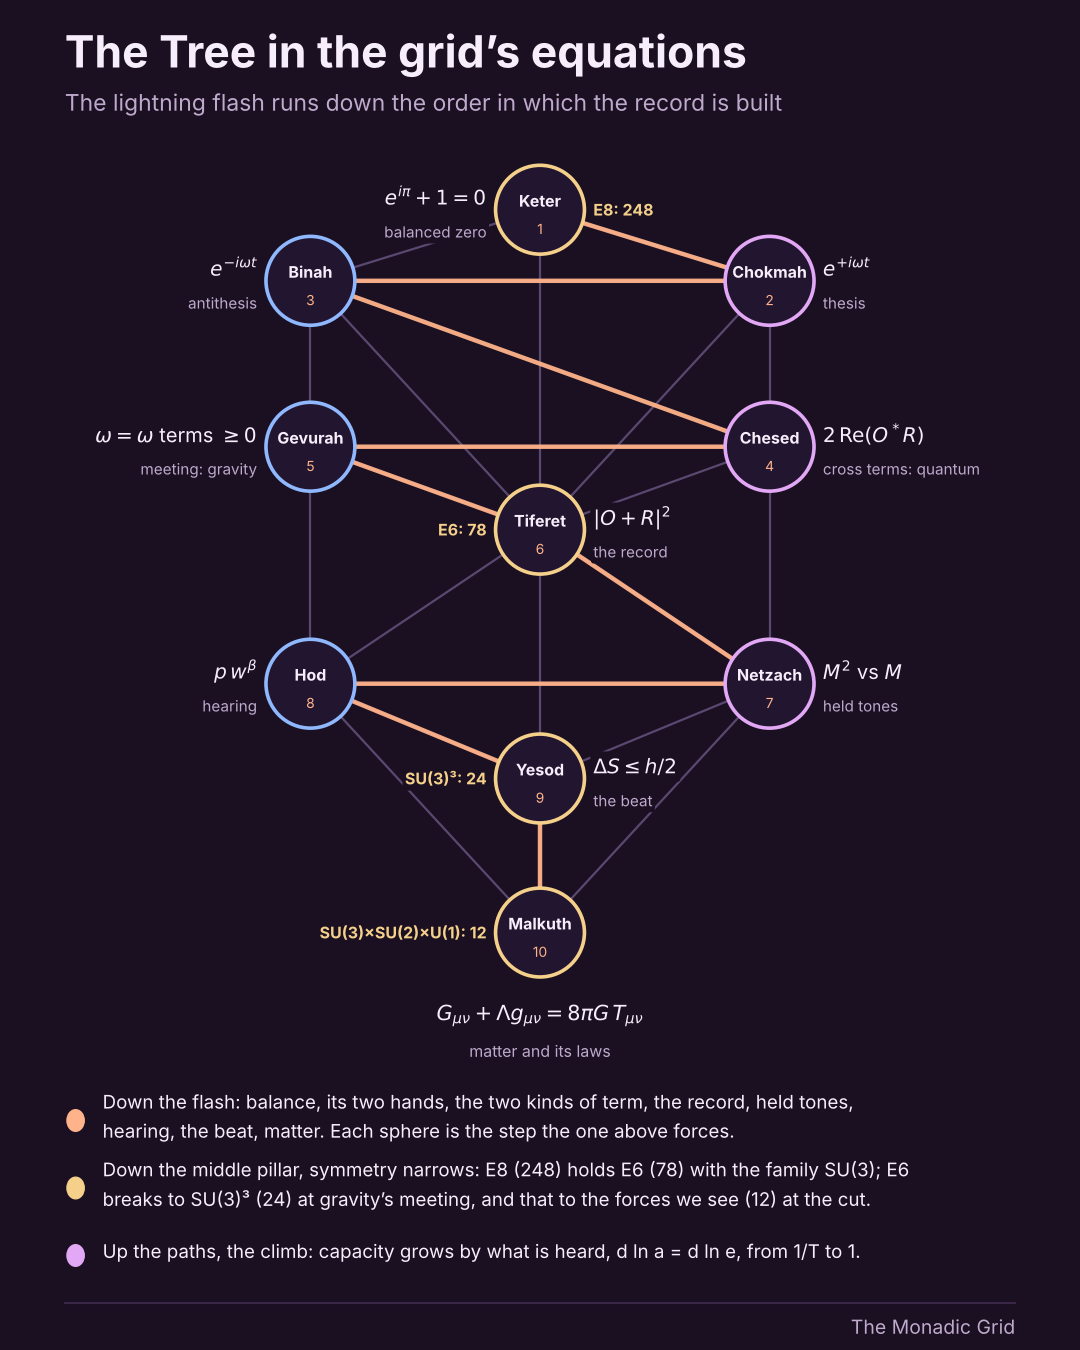
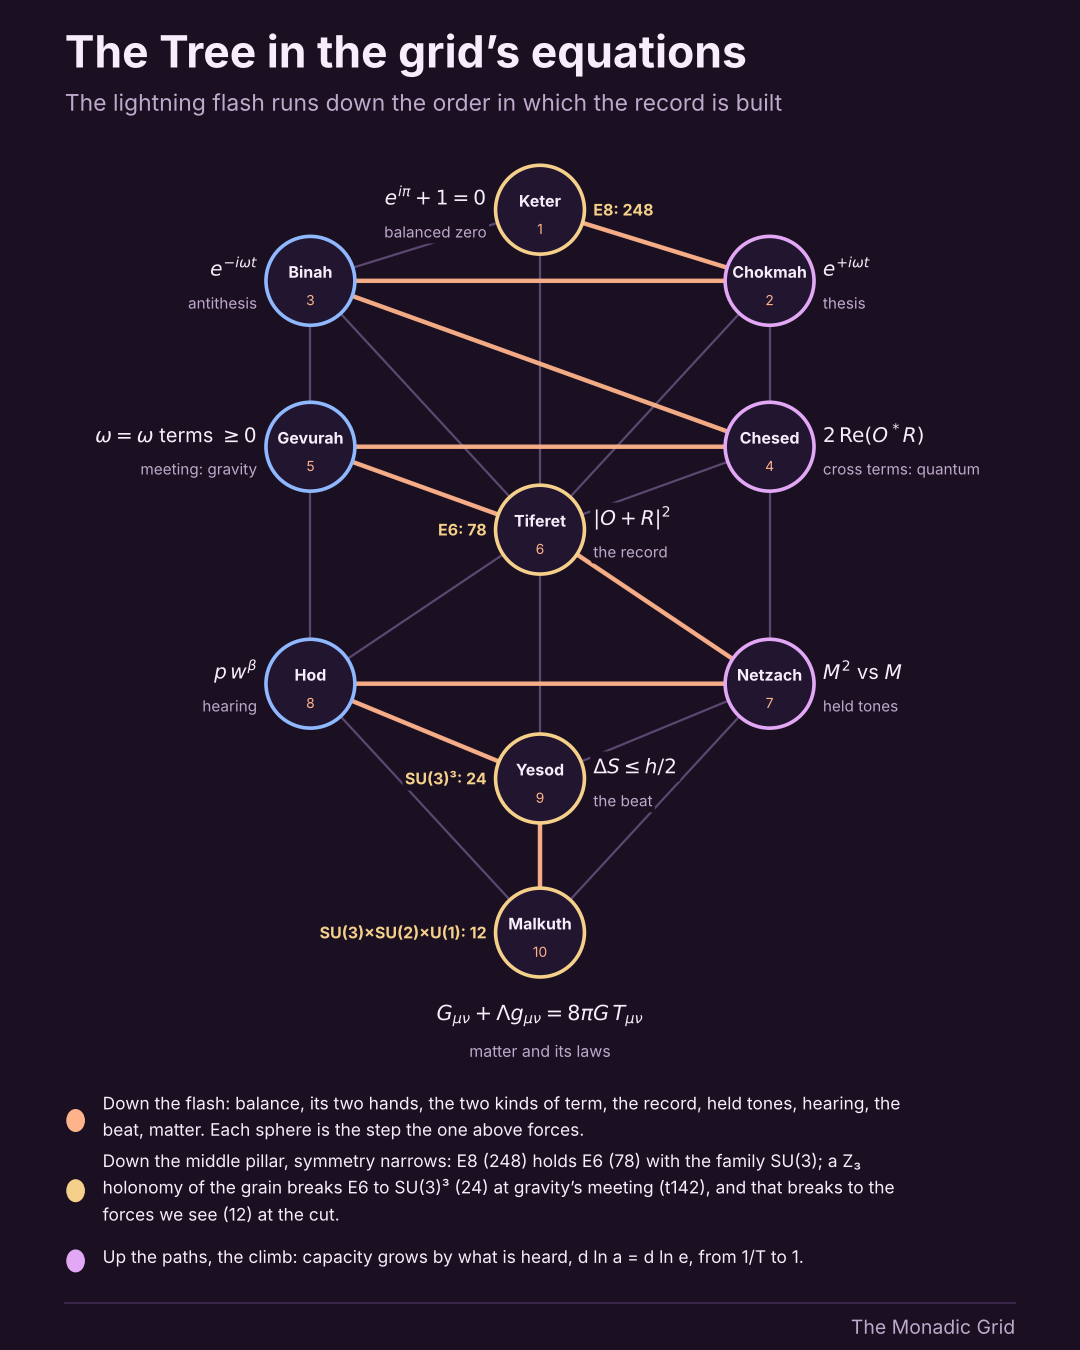
Old maps: tree slides (around the Tree; downward tree); equations slide cites t142
Claude-Session: https://claude.ai/code/session_01CKqo7m5nb9uVy9UuX5Nsz2

Changed region(s): [[0.0611, 0.8089, 0.825, 0.9333]]

diff --git a/drafts/old_maps/visuals/tree_around.py b/drafts/old_maps/visuals/tree_around.py
@@ -1,0 +1,52 @@
+"""Old maps slide: the Tree of Life drawn in full, with the grid's reading (dialectic pillars, 22 paths, the climb)."""
+import matplotlib; matplotlib.use('Agg'); import matplotlib.pyplot as plt
+from matplotlib.patches import Circle, FancyBboxPatch
+BG, PANEL, INK, MUTED, LINE = '#1A1022', '#221530', '#F7EEFB', '#BFA9CC', '#3A2748'
+THESIS, ANTI, SYN = '#E3A8F5', '#8FB8FF', '#F5D08A'
+SY = 0.76
+XS = 1.5
+S0 = {'Keter': (0, 0, 'Crown', SYN), 'Chokmah': (1, 0.6, 'Wisdom', THESIS), 'Binah': (-1, 0.6, 'Understanding', ANTI),
+     'Chesed': (1, 2.0, 'Mercy', THESIS), 'Gevurah': (-1, 2.0, 'Strength', ANTI), 'Tiferet': (0, 2.7, 'Beauty', SYN),
+     'Netzach': (1, 4.0, 'Victory', THESIS), 'Hod': (-1, 4.0, 'Splendour', ANTI), 'Yesod': (0, 4.8, 'Foundation', SYN), 'Malkuth': (0, 6.1, 'Kingdom', SYN)}
+S = {k: (x*XS, y*SY, e, c) for k, (x, y, e, c) in S0.items()}
+P = [('Keter','Chokmah','א','m'),('Keter','Binah','ב','d'),('Keter','Tiferet','ג','d'),('Chokmah','Binah','ד','d'),('Chokmah','Tiferet','ה','s'),
+     ('Chokmah','Chesed','ו','s'),('Binah','Tiferet','ז','s'),('Binah','Gevurah','ח','s'),('Chesed','Gevurah','ט','s'),('Chesed','Tiferet','י','s'),
+     ('Chesed','Netzach','כ','d'),('Gevurah','Tiferet','ל','s'),('Gevurah','Hod','מ','m'),('Tiferet','Netzach','נ','s'),('Tiferet','Yesod','ס','s'),
+     ('Tiferet','Hod','ע','s'),('Netzach','Hod','פ','d'),('Netzach','Yesod','צ','s'),('Netzach','Malkuth','ק','s'),('Hod','Yesod','ר','d'),
+     ('Hod','Malkuth','ש','m'),('Yesod','Malkuth','ת','d')]
+PC = {'m': '#FFB38A', 'd': '#C9A2F0', 's': '#6E5A82'}
+fig = plt.figure(figsize=(10.8, 13.5), dpi=100); fig.patch.set_facecolor(BG)
+fig.text(0.06, 0.945, 'Around the Tree: veils, pillars, worlds', color=INK, fontsize=32, fontweight='bold')
+fig.text(0.06, 0.912, 'What stands above the Crown, what each pillar is, and the four worlds', color=MUTED, fontsize=17)
+ax = fig.add_axes([0.02, 0.255, 0.96, 0.645]); ax.set_facecolor(BG); ax.axis('off'); ax.set_xlim(-2.75, 2.75); ax.set_ylim(6.1*SY + 0.55, -1.15); ax.set_aspect('equal')
+for x, c, lab in ((XS, THESIS, 'Mercy · bosonic'), (-XS, ANTI, 'Severity · fermionic'), (0, SYN, 'Balance · mirror line')):
+    ax.add_patch(FancyBboxPatch((x - 0.5, -0.55), 1.0, (6.1*SY + 1.05) if x == 0 else (4.0*SY + 1.0), boxstyle='round,pad=0,rounding_size=0.25', fc=c, alpha=0.07, ec='none'))
+    ax.text(x, -0.72, lab, color=c, fontsize=12.5, ha='center', va='center', fontweight='bold')
+WORLDS = [('Atziluth', 'frequency domain', -0.45, 0.35), ('Beriah', 'the record begins', 0.35, 1.0), ('Yetzirah', 'tones form', 1.0, 5.3), ('Assiah', 'bodies', 5.3, 6.6)]
+for i, (wn, wg, y0, y1) in enumerate(WORLDS):
+    ax.axhspan(y0*SY*1.0, y1*SY*1.0, color='#8FB8FF' if i % 2 else '#E3A8F5', alpha=0.035, zorder=0)
+    ax.text(1.98, (y0 + y1)/2*SY, wn, color=INK, fontsize=11, ha='left', va='bottom', fontweight='bold')
+    ax.text(1.98, (y0 + y1)/2*SY + 0.06, wg, color=MUTED, fontsize=10, ha='left', va='top')
+ax.text(0, -0.98, 'Ain  0   ·   Ain Soph  ∞   ·   Ain Soph Aur  light', color=MUTED, fontsize=11.5, ha='center', va='center')
+for a, b, L, k in P:
+    (xa, ya, *_), (xb, yb, *_) = S[a], S[b]
+    ax.plot([xa, xb], [ya, yb], color=PC[k], lw=3.2 if k != 's' else 2.2, zorder=1, solid_capstyle='round')
+    mx, my = (xa + xb)/2, (ya + yb)/2
+    if (a, b) in (('Keter', 'Tiferet'), ('Tiferet', 'Yesod'), ('Yesod', 'Malkuth')): mx += 0.2
+    ax.text(mx, my, L, color=INK, fontsize=13, ha='center', va='center', zorder=3, family='DejaVu Sans',
+            bbox=dict(boxstyle='circle,pad=0.18', fc=BG, ec=PC[k], lw=1))
+for name, (x, y, eng, c) in S.items():
+    ax.add_patch(Circle((x, y), 0.34, fc=PANEL, ec=c, lw=3, zorder=4))
+    ax.text(x, y - 0.07, name, color=INK, fontsize=12 if len(name) > 6 else 13, ha='center', va='center', fontweight='bold', zorder=5)
+    ax.text(x, y + 0.16, eng, color=MUTED, fontsize=7.6 if len(eng) > 10 else 9.5, ha='center', va='center', zorder=5)
+items = [('#F5D08A', 'Above the Crown: Ain, Ain Soph, Ain Soph Aur. Nothing, the unbounded, and light between them: the balanced zero, the whole spectrum, the record’s first ray.'),
+         ('#E3A8F5', 'Mercy is expansion, the bosonic side: every occupation allowed. Severity is restriction, the fermionic side: exclusion, the tzimtzum that gives each monad its own coordinates.'),
+         ('#F5D08A', 'Tiferet is the hub: every shortest path from Crown to Kingdom passes through it, as every reading passes through the record. Ten spheres from the tetractys, 1 + 2 + 3 + 4.')]
+import textwrap
+for i, (c, s) in enumerate(items):
+    y = 0.215 - i*0.062
+    fig.patches.append(Circle((0.07, y - 0.004), 0.008, color=c, transform=fig.transFigure, figure=fig))
+    fig.text(0.095, y, '\n'.join(textwrap.wrap(s, 96)), color=INK, fontsize=13.5, va='center', linespacing=1.3)
+fig.add_artist(plt.Line2D([0.06, 0.94], [0.04, 0.04], color=LINE, lw=1.5, transform=fig.transFigure))
+fig.text(0.94, 0.016, 'The Monadic Grid', color=MUTED, fontsize=14, ha='right')
+fig.savefig('tree_around.png', facecolor=BG); print('ok')

diff --git a/drafts/old_maps/visuals/downtree_slide.py b/drafts/old_maps/visuals/downtree_slide.py
@@ -1,0 +1,35 @@
+"""Old maps slide: the downward tree. The upward and downward Fibonacci series, the golden annulus between them, and the zeta mirror."""
+import numpy as np, matplotlib; matplotlib.use('Agg'); import matplotlib.pyplot as plt
+from matplotlib.patches import Circle, Wedge
+BG, INK, MUTED, LINE = '#1A1022', '#F7EEFB', '#BFA9CC', '#3A2748'
+UP, DOWN, VEIL, GOLD = '#E3A8F5', '#8FB8FF', '#FFB38A', '#F5D08A'
+phi = (1 + 5**0.5)/2
+fig = plt.figure(figsize=(10.8, 13.5), dpi=100); fig.patch.set_facecolor(BG)
+fig.text(0.06, 0.95, 'The downward tree', color=INK, fontsize=32, fontweight='bold')
+fig.text(0.06, 0.918, 'Each tree’s infinity is the other’s finite side; the veil lies between', color=MUTED, fontsize=16.5)
+ax = fig.add_axes([0.05, 0.40, 0.9, 0.49]); ax.set_facecolor(BG); ax.set_aspect('equal'); ax.axis('off'); ax.set_xlim(-2.6, 2.6); ax.set_ylim(-2.25, 2.25)
+ax.add_patch(Circle((0, 0), 2.2, color=DOWN, alpha=0.18, lw=0))
+ax.add_patch(Wedge((0, 0), phi, 0, 360, width=phi - 1/phi, color=VEIL, alpha=0.35, lw=0))
+ax.add_patch(Circle((0, 0), 1/phi, color=UP, alpha=0.45, lw=0))
+for r, c in ((1/phi, UP), (phi, DOWN)): ax.add_patch(Circle((0, 0), r, fill=False, ec=c, lw=2.5))
+ax.plot([1/phi, -phi], [0, 0], 'o', color=GOLD, ms=9, zorder=5)
+ax.text(0, 0.02, 'upward tree', color='#2A1438', fontsize=12, ha='center', va='center', fontweight='bold')
+ax.text(0, -0.22, '|x| < 1/φ', color='#2A1438', fontsize=11, ha='center', va='center')
+ax.text(0, 1.0, 'the veil', color='#3A1A0E', fontsize=13, ha='center', va='center', fontweight='bold')
+ax.text(0, 0.8, '1/φ ≤ |x| ≤ φ', color='#3A1A0E', fontsize=11, ha='center', va='center')
+ax.text(0, 1.95, 'downward tree,  |x| > φ', color=INK, fontsize=12.5, ha='center', va='center', fontweight='bold')
+ax.text(1/phi + 0.08, -0.17, '1/φ', color=GOLD, fontsize=11)
+ax.text(-phi - 0.05, -0.2, '−φ', color=GOLD, fontsize=11, ha='right')
+eqs = [(UP, r'$\sum_{n\geq 1} F(n)\,x^n=\frac{x}{1-x-x^2}$', 'the upward tree converges inside 1/φ'),
+       (DOWN, r'$\sum_{m\geq 0} F(-m)\,x^{-m}=-\frac{x}{1-x-x^2}$', 'the downward tree converges outside φ'),
+       (VEIL, r'$U+D=0$', 'joined, the two trees cancel: only the poles at 1/φ and −φ remain'),
+       (GOLD, r'$\Lambda(s)=\Lambda(1-s)$', 'the same mirror for ζ: only s = 0 and s = 1 stay infinite; the zeros live in the veil')]
+for i, (c, eq, gloss) in enumerate(eqs):
+    y = 0.36 - i*0.07
+    fig.patches.append(Circle((0.07, y), 0.008, color=c, transform=fig.transFigure, figure=fig))
+    fig.text(0.095, y + 0.008, eq, color=INK, fontsize=17, va='center')
+    fig.text(0.095, y - 0.024, gloss, color=MUTED, fontsize=13, va='center')
+fig.text(0.06, 0.072, 'The Qliphoth, the shells, are each tree alone: an infinity with no partner.\nJoined at the mirror, every infinity cancels but the two ends.', color=INK, fontsize=13.5, linespacing=1.4)
+fig.add_artist(plt.Line2D([0.06, 0.94], [0.035, 0.035], color=LINE, lw=1.5, transform=fig.transFigure))
+fig.text(0.94, 0.012, 'The Monadic Grid', color=MUTED, fontsize=14, ha='right')
+fig.savefig('downtree.png', facecolor=BG); print('ok')

diff --git a/drafts/old_maps/visuals/tree_equations.py b/drafts/old_maps/visuals/tree_equations.py
@@ -45,13 +45,13 @@ for k, dim in (('Keter', 'E8: 248'), ('Tiferet', 'E6: 78'), ('Yesod', 'SU(3)³: 
     x, y = S[k][0], S[k][1]
     ax.text(x + (0.36 if k == 'Keter' else -0.36), y + (0.0), dim, color=SYN, fontsize=11.5, ha=('left' if k == 'Keter' else 'right'), va='center', fontweight='bold', zorder=6, bbox=dict(boxstyle='round,pad=0.15', fc=BG, ec='none'))
 items = [(FLASH, 'Down the flash: balance, its two hands, the two kinds of term, the record, held tones, hearing, the beat, matter. Each sphere is the step the one above forces.'),
-         (SYN, 'Down the middle pillar, symmetry narrows: E8 (248) holds E6 (78) with the family SU(3); E6 breaks to SU(3)³ (24) at gravity’s meeting, and that to the forces we see (12) at the cut.'),
+         (SYN, 'Down the middle pillar, symmetry narrows: E8 (248) holds E6 (78) with the family SU(3); a Z₃ holonomy of the grain breaks E6 to SU(3)³ (24) at gravity’s meeting (t142), and that breaks to the forces we see (12) at the cut.'),
          (THESIS, 'Up the paths, the climb: capacity grows by what is heard, d ln a = d ln e, from 1/T to 1.')]
 import textwrap
 for i, (c, s) in enumerate(items):
-    y = 0.172 - i*0.05
+    y = 0.172 - i*0.052
     fig.patches.append(Circle((0.07, y - 0.002), 0.008, color=c, transform=fig.transFigure, figure=fig))
-    fig.text(0.095, y, '\n'.join(textwrap.wrap(s, 92)), color=INK, fontsize=13.5, va='center', linespacing=1.3)
+    fig.text(0.095, y, '\n'.join(textwrap.wrap(s, 100)), color=INK, fontsize=12.5, va='center', linespacing=1.25)
 fig.add_artist(plt.Line2D([0.06, 0.94], [0.035, 0.035], color=LINE, lw=1.5, transform=fig.transFigure))
 fig.text(0.94, 0.012, 'The Monadic Grid', color=MUTED, fontsize=14, ha='right')
 fig.savefig('tree_equations.png', facecolor=BG); print('ok')
